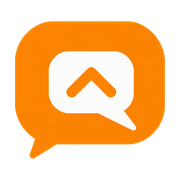
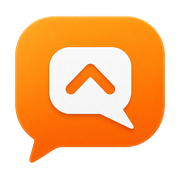
로고 교체, 상단 사진을 K-MEX 강의 사진으로 변경
Claude-Session: https://claude.ai/code/session_01Vp8HBMvyZNeE7F1fK8AEWw

diff --git a/index.html b/index.html
@@ -1,8 +1,8 @@
 <!doctype html><html lang="ko"><head><meta charset="utf-8"><meta name="viewport" content="width=device-width,initial-scale=1"><title>한의원 한방병원 성공연구소 | 임유주 직원교육·상담실장 양성 및 교육·운영 컨설팅</title><meta name="description" content="한의원·한방병원 직원교육, 상담실장 양성 및 교육, 비급여 상담교육, 개원 직원교육, CS교육, 운영 컨설팅. 임유주가 현장 관찰과 환자만족도 분석을 바탕으로 상담과 업무 흐름을 함께 다듬습니다."><meta name="theme-color" content="#FC8501"><link rel="icon" type="image/png" href="img/favicon.png"><link rel="apple-touch-icon" href="img/apple-touch-icon.png"><meta property="og:title" content="한의원 한방병원 성공연구소 | 임유주"><meta property="og:image" content="https://hani-success.github.io/img/logo.png"><style>
-:root{--orange:#FC8501;--ink:#25251f;--muted:#707069;--paper:#faf9f5;--line:#deded5}*{box-sizing:border-box}html{scroll-behavior:smooth;scroll-padding-top:90px}body{margin:0;background:var(--paper);color:var(--ink);font-family:Pretendard,'Noto Sans KR',Arial,sans-serif;line-height:1.8;word-break:keep-all}a{color:inherit;text-decoration:none}button,input,textarea,select{font:inherit}header{position:sticky;top:0;background:#faf9f5ee;backdrop-filter:blur(16px);border-bottom:1px solid var(--line);z-index:10}.nav{max-width:1200px;margin:auto;display:flex;align-items:center;justify-content:space-between;padding:19px 30px}.brand{font-weight:800;line-height:1.4;font-size:16px;display:flex;gap:12px;align-items:center}.brandname{white-space:nowrap;font-size:17px;letter-spacing:-.3px}.brandname .sub{font-weight:600}.mark{width:36px;height:36px;display:block}.links{display:flex;gap:28px;font-size:14px}.navcta{font-weight:700;color:#914500}.wrap{max-width:1140px;margin:auto;padding:0 30px}section{padding:110px 0}.eyebrow{font-size:12px;font-weight:800;letter-spacing:2px;color:#9b4b00;margin-bottom:24px}.hero{padding:100px 0 70px}.hero-grid{display:grid;grid-template-columns:1.4fr 1fr;gap:60px;align-items:center}h1{font-size:clamp(36px,4.8vw,64px);line-height:1.3;letter-spacing:-2.5px;font-weight:750;margin:0 0 28px}h2{font-size:clamp(28px,3.4vw,43px);line-height:1.4;letter-spacing:-1.6px;margin:0 0 24px}h3{font-size:21px;line-height:1.5;margin:0 0 16px}p{margin:0 0 20px}.lead{font-size:18px;color:var(--muted);max-width:660px}.accent{color:#b65b00}.buttons{display:flex;gap:14px;flex-wrap:wrap;margin-top:32px}.btn{display:inline-flex;align-items:center;justify-content:center;gap:25px;padding:14px 22px;background:var(--orange);color:#26220f;border-radius:4px;font-weight:700;border:0;cursor:pointer}.btn.secondary{background:transparent;border:1px solid #b8b8ad}.portrait{margin:0;border-radius:160px 160px 10px 10px;overflow:hidden;background:#e9e1d6;max-width:460px;justify-self:end;width:100%}.portrait img{display:block;width:100%;height:auto}.visual{min-height:420px;position:relative;background:#eeede5;border-radius:160px 160px 10px 10px;padding:70px 28px 35px;display:flex;flex-direction:column;justify-content:center}.visual:before{content:'';position:absolute;top:30px;right:25px;width:80px;height:80px;background:var(--orange);border-radius:50%}.visual .line{font-size:16px;margin:0 0 10px;padding:13px 18px;background:white;box-shadow:0 5px 20px #25251f08;border-radius:6px;position:relative}.visual .line:nth-child(2){margin-left:25px}.visual .line:nth-child(3){background:var(--ink);color:white;margin-right:25px}.visual .caption{font-size:13px;margin:24px 0 0;color:var(--muted);text-align:center}.stats{display:flex;border-top:1px solid var(--line);margin-top:70px;padding-top:28px;gap:65px}.stat strong{font-size:36px;letter-spacing:-1px}.stat span{display:block;font-size:13px;color:var(--muted)}.dark{background:var(--ink);color:#fff}.dark .eyebrow{color:#ffc076}.dark .lead{color:#c4c4b9}.split{display:grid;grid-template-columns:1fr 1.2fr;gap:80px}.quotes{border-top:1px solid #ffffff30}.quote{padding:24px 0;border-bottom:1px solid #ffffff30;font-size:20px}.closing{margin-top:28px;color:#c4c4b9;font-size:15px}.steps{margin-top:50px;display:grid;grid-template-columns:repeat(3,1fr);gap:30px}.step{border-top:2px solid var(--orange);padding-top:24px}.step small{color:#9b4b00;font-size:12px;font-weight:700}.step h3{margin-top:12px}.step p{color:var(--muted);font-size:15px}.services{display:grid;grid-template-columns:1fr 1fr;gap:1px;background:var(--line);border:1px solid var(--line);margin-top:45px}.service{background:var(--paper);padding:35px}.tag{font-size:12px;color:#8a4b12;margin-bottom:16px}.service p{color:var(--muted);font-size:15px}.service .topics{font-size:13px;border-top:1px solid var(--line);padding-top:16px;margin-bottom:0;color:#55554b}.cases{background:#efeee7}.case{padding:35px 0;display:grid;grid-template-columns:.85fr 1.2fr;gap:70px;border-top:1px solid #cecec3}.case:first-of-type{margin-top:45px}.case p{font-size:15px;color:#606057}.label{font-size:12px;color:#995008;display:block;margin-bottom:10px}.case h3{font-size:25px}.note{font-size:12px;color:var(--muted)}.profile{border-left:4px solid var(--orange);padding-left:28px}.profile .name{font-size:38px;font-weight:800;margin-bottom:8px}.credentials{padding:0;list-style:none;margin:28px 0 0}.credentials li{border-bottom:1px solid var(--line);padding:14px 0;font-size:15px}.process{display:grid;grid-template-columns:repeat(4,1fr);gap:25px;margin-top:45px}.process article{border-top:1px solid var(--line);padding-top:22px}.process h3{font-size:18px}.process p{font-size:14px;color:var(--muted)}details{border-bottom:1px solid var(--line);padding:22px 0}summary{font-size:18px;font-weight:600;cursor:pointer}details p{margin:18px 0 0;color:var(--muted);font-size:15px;max-width:850px}.contact{background:#ffead3}.contactbox{display:grid;grid-template-columns:1fr 1fr;gap:70px}.field{margin:0 0 15px}.field label{display:block;font-size:13px;font-weight:700;margin-bottom:5px}input,textarea,select{width:100%;border:1px solid #c9b49a;background:#fffaf4;padding:12px;border-radius:4px;color:var(--ink)}textarea{height:130px;resize:vertical}.status{font-size:13px;margin-top:15px}.kakao{display:flex;align-items:center;justify-content:space-between;gap:16px;background:#fff;border:1px solid #e3c9a6;border-radius:6px;padding:20px 22px;margin-bottom:28px}.kakao strong{display:block;font-size:17px}.kakao span{font-size:13px;color:var(--muted)}.kakao .btn{white-space:nowrap;flex-shrink:0;font-size:15px;color:#26220f}.or{font-size:12px;color:var(--muted);margin:0 0 14px}footer{padding:35px 0;font-size:12px;color:var(--muted)}footer .wrap{display:flex;justify-content:space-between;gap:20px}.mobile-menu{display:none}a:focus-visible,button:focus-visible,summary:focus-visible{outline:3px solid #ad5200;outline-offset:5px}@media(max-width:800px){.links{gap:15px;font-size:12px}.hero-grid,.split,.contactbox{grid-template-columns:1fr;gap:40px}.hero{padding-top:60px}section{padding:70px 0}.visual{min-height:310px;max-width:450px;width:100%;margin:auto}.portrait{max-width:360px;margin:auto;justify-self:center}.steps{grid-template-columns:1fr;gap:20px}.services{grid-template-columns:1fr}.case{grid-template-columns:1fr;gap:12px}.process{grid-template-columns:1fr 1fr}.stats{gap:40px}.nav,.wrap{padding-left:22px;padding-right:22px}.brand{font-size:13px;gap:8px}.brandname{font-size:14px}.links a:not(.navcta){display:none}footer .wrap{flex-direction:column}h1{letter-spacing:-1.7px}.hero-grid{gap:35px}.service{padding:26px}}
+:root{--orange:#FC8501;--ink:#25251f;--muted:#707069;--paper:#faf9f5;--line:#deded5}*{box-sizing:border-box}html{scroll-behavior:smooth;scroll-padding-top:90px}body{margin:0;background:var(--paper);color:var(--ink);font-family:Pretendard,'Noto Sans KR',Arial,sans-serif;line-height:1.8;word-break:keep-all}a{color:inherit;text-decoration:none}button,input,textarea,select{font:inherit}header{position:sticky;top:0;background:#faf9f5ee;backdrop-filter:blur(16px);border-bottom:1px solid var(--line);z-index:10}.nav{max-width:1200px;margin:auto;display:flex;align-items:center;justify-content:space-between;padding:19px 30px}.brand{font-weight:800;line-height:1.4;font-size:16px;display:flex;gap:12px;align-items:center}.brandname{white-space:nowrap;font-size:17px;letter-spacing:-.3px}.brandname .sub{font-weight:600}.mark{width:36px;height:36px;display:block}.links{display:flex;gap:28px;font-size:14px}.navcta{font-weight:700;color:#914500}.wrap{max-width:1140px;margin:auto;padding:0 30px}section{padding:110px 0}.eyebrow{font-size:12px;font-weight:800;letter-spacing:2px;color:#9b4b00;margin-bottom:24px}.hero{padding:100px 0 70px}.hero-grid{display:grid;grid-template-columns:1.15fr 1fr;gap:60px;align-items:center}h1{font-size:clamp(36px,4.8vw,64px);line-height:1.3;letter-spacing:-2.5px;font-weight:750;margin:0 0 28px}h2{font-size:clamp(28px,3.4vw,43px);line-height:1.4;letter-spacing:-1.6px;margin:0 0 24px}h3{font-size:21px;line-height:1.5;margin:0 0 16px}p{margin:0 0 20px}.lead{font-size:18px;color:var(--muted);max-width:660px}.accent{color:#b65b00}.buttons{display:flex;gap:14px;flex-wrap:wrap;margin-top:32px}.btn{display:inline-flex;align-items:center;justify-content:center;gap:25px;padding:14px 22px;background:var(--orange);color:#26220f;border-radius:4px;font-weight:700;border:0;cursor:pointer}.btn.secondary{background:transparent;border:1px solid #b8b8ad}.portrait{margin:0;justify-self:end;width:100%;max-width:560px}.portrait img{display:block;width:100%;height:auto;border-radius:12px;box-shadow:0 18px 40px #25251f14}.portrait figcaption{font-size:13px;color:var(--muted);margin-top:12px;padding-left:12px;border-left:3px solid var(--orange);line-height:1.5}.visual{min-height:420px;position:relative;background:#eeede5;border-radius:160px 160px 10px 10px;padding:70px 28px 35px;display:flex;flex-direction:column;justify-content:center}.visual:before{content:'';position:absolute;top:30px;right:25px;width:80px;height:80px;background:var(--orange);border-radius:50%}.visual .line{font-size:16px;margin:0 0 10px;padding:13px 18px;background:white;box-shadow:0 5px 20px #25251f08;border-radius:6px;position:relative}.visual .line:nth-child(2){margin-left:25px}.visual .line:nth-child(3){background:var(--ink);color:white;margin-right:25px}.visual .caption{font-size:13px;margin:24px 0 0;color:var(--muted);text-align:center}.stats{display:flex;border-top:1px solid var(--line);margin-top:70px;padding-top:28px;gap:65px}.stat strong{font-size:36px;letter-spacing:-1px}.stat span{display:block;font-size:13px;color:var(--muted)}.dark{background:var(--ink);color:#fff}.dark .eyebrow{color:#ffc076}.dark .lead{color:#c4c4b9}.split{display:grid;grid-template-columns:1fr 1.2fr;gap:80px}.quotes{border-top:1px solid #ffffff30}.quote{padding:24px 0;border-bottom:1px solid #ffffff30;font-size:20px}.closing{margin-top:28px;color:#c4c4b9;font-size:15px}.steps{margin-top:50px;display:grid;grid-template-columns:repeat(3,1fr);gap:30px}.step{border-top:2px solid var(--orange);padding-top:24px}.step small{color:#9b4b00;font-size:12px;font-weight:700}.step h3{margin-top:12px}.step p{color:var(--muted);font-size:15px}.services{display:grid;grid-template-columns:1fr 1fr;gap:1px;background:var(--line);border:1px solid var(--line);margin-top:45px}.service{background:var(--paper);padding:35px}.tag{font-size:12px;color:#8a4b12;margin-bottom:16px}.service p{color:var(--muted);font-size:15px}.service .topics{font-size:13px;border-top:1px solid var(--line);padding-top:16px;margin-bottom:0;color:#55554b}.cases{background:#efeee7}.case{padding:35px 0;display:grid;grid-template-columns:.85fr 1.2fr;gap:70px;border-top:1px solid #cecec3}.case:first-of-type{margin-top:45px}.case p{font-size:15px;color:#606057}.label{font-size:12px;color:#995008;display:block;margin-bottom:10px}.case h3{font-size:25px}.note{font-size:12px;color:var(--muted)}.profile{border-left:4px solid var(--orange);padding-left:28px}.profile .name{font-size:38px;font-weight:800;margin-bottom:8px}.credentials{padding:0;list-style:none;margin:28px 0 0}.credentials li{border-bottom:1px solid var(--line);padding:14px 0;font-size:15px}.process{display:grid;grid-template-columns:repeat(4,1fr);gap:25px;margin-top:45px}.process article{border-top:1px solid var(--line);padding-top:22px}.process h3{font-size:18px}.process p{font-size:14px;color:var(--muted)}details{border-bottom:1px solid var(--line);padding:22px 0}summary{font-size:18px;font-weight:600;cursor:pointer}details p{margin:18px 0 0;color:var(--muted);font-size:15px;max-width:850px}.contact{background:#ffead3}.contactbox{display:grid;grid-template-columns:1fr 1fr;gap:70px}.field{margin:0 0 15px}.field label{display:block;font-size:13px;font-weight:700;margin-bottom:5px}input,textarea,select{width:100%;border:1px solid #c9b49a;background:#fffaf4;padding:12px;border-radius:4px;color:var(--ink)}textarea{height:130px;resize:vertical}.status{font-size:13px;margin-top:15px}.kakao{display:flex;align-items:center;justify-content:space-between;gap:16px;background:#fff;border:1px solid #e3c9a6;border-radius:6px;padding:20px 22px;margin-bottom:28px}.kakao strong{display:block;font-size:17px}.kakao span{font-size:13px;color:var(--muted)}.kakao .btn{white-space:nowrap;flex-shrink:0;font-size:15px;color:#26220f}.or{font-size:12px;color:var(--muted);margin:0 0 14px}footer{padding:35px 0;font-size:12px;color:var(--muted)}footer .wrap{display:flex;justify-content:space-between;gap:20px}.mobile-menu{display:none}a:focus-visible,button:focus-visible,summary:focus-visible{outline:3px solid #ad5200;outline-offset:5px}@media(max-width:800px){.links{gap:15px;font-size:12px}.hero-grid,.split,.contactbox{grid-template-columns:1fr;gap:40px}.hero{padding-top:60px}section{padding:70px 0}.visual{min-height:310px;max-width:450px;width:100%;margin:auto}.portrait{max-width:560px;margin:0;justify-self:stretch}.steps{grid-template-columns:1fr;gap:20px}.services{grid-template-columns:1fr}.case{grid-template-columns:1fr;gap:12px}.process{grid-template-columns:1fr 1fr}.stats{gap:40px}.nav,.wrap{padding-left:22px;padding-right:22px}.brand{font-size:13px;gap:8px}.brandname{font-size:14px}.links a:not(.navcta){display:none}footer .wrap{flex-direction:column}h1{letter-spacing:-1.7px}.hero-grid{gap:35px}.service{padding:26px}}
 </style></head><body>
 <header><nav class="nav" aria-label="주 메뉴"><a class="brand" href="#home"><img class="mark" src="img/logo.png" alt="" width="36" height="36"><span class="brandname"><span class="sub">한의원 한방병원</span> 성공연구소</span></a><div class="links"><a href="#approach">교육 방식</a><a href="#programs">프로그램</a><a href="#cases">현장 사례</a><a href="#about">임유주 소개</a><a href="#contact" class="navcta">문의하기 ↗</a></div></nav></header>
-<main><section class="hero" id="home"><div class="wrap"><div class="hero-grid"><div><div class="eyebrow">현장을 이해하는 교육, 함께 만드는 변화</div><h1>환자가 다시 찾고,<br>직원이 함께 만드는<br><span class="accent">한의원·한방병원.</span></h1><p class="lead">한의원·한방병원 직원교육부터 상담교육, 운영 컨설팅까지. 직원이 막히는 지점을 함께 찾고, 현장에서 사용할 수 있는 말과 행동으로 풀어갑니다.</p><div class="buttons"><a class="btn" href="#contact">우리 한의원 교육 문의하기 <span>↗</span></a><a class="btn secondary" href="#approach">교육 방식 살펴보기 ↓</a></div></div><figure class="portrait"><img src="img/yimyoojoo.jpg" width="600" height="818" alt="한의원 한방병원 성공연구소 임유주 대표" fetchpriority="high"></figure></div><div style="margin-top:55px;padding:25px 0;border-top:1px solid var(--line)"><p style="font-size:clamp(22px,2.5vw,30px);font-weight:700;letter-spacing:-1px;margin-bottom:10px">환자의 방문 경험이 재내원과 소개를 결정합니다.</p><p style="color:var(--muted);margin:0">첫 전화의 응대, 진료 전후의 설명, 기다리는 동안의 안내까지.<br>환자가 경험하는 장면마다 신뢰가 쌓이도록 직원교육과 운영을 함께 다듬습니다.</p></div><div class="stats" style="margin-top:0"><div class="stat"><strong>6,000+</strong><span>환자만족도 설문 분석</span></div><div class="stat"><strong>100+</strong><span>한의원·한방병원 현장 방문 직원교육</span></div></div></div></section>
+<main><section class="hero" id="home"><div class="wrap"><div class="hero-grid"><div><div class="eyebrow">현장을 이해하는 교육, 함께 만드는 변화</div><h1>환자가 다시 찾고,<br>직원이 함께 만드는<br><span class="accent">한의원·한방병원.</span></h1><p class="lead">한의원·한방병원 직원교육부터 상담교육, 운영 컨설팅까지. 직원이 막히는 지점을 함께 찾고, 현장에서 사용할 수 있는 말과 행동으로 풀어갑니다.</p><div class="buttons"><a class="btn" href="#contact">우리 한의원 교육 문의하기 <span>↗</span></a><a class="btn secondary" href="#approach">교육 방식 살펴보기 ↓</a></div></div><figure class="portrait"><img src="img/kmex-lecture.jpg" width="1200" height="900" alt="K-MEX 2025 한의의료기관 직원 CS 교육에서 강의하는 한의원 한방병원 성공연구소 임유주 대표" fetchpriority="high"><figcaption>K-MEX 2025 · 한의의료기관 직원 CS 교육 강의</figcaption></figure></div><div style="margin-top:55px;padding:25px 0;border-top:1px solid var(--line)"><p style="font-size:clamp(22px,2.5vw,30px);font-weight:700;letter-spacing:-1px;margin-bottom:10px">환자의 방문 경험이 재내원과 소개를 결정합니다.</p><p style="color:var(--muted);margin:0">첫 전화의 응대, 진료 전후의 설명, 기다리는 동안의 안내까지.<br>환자가 경험하는 장면마다 신뢰가 쌓이도록 직원교육과 운영을 함께 다듬습니다.</p></div><div class="stats" style="margin-top:0"><div class="stat"><strong>6,000+</strong><span>환자만족도 설문 분석</span></div><div class="stat"><strong>100+</strong><span>한의원·한방병원 현장 방문 직원교육</span></div></div></div></section>
 <section class="dark" id="concerns"><div class="wrap split"><div><div class="eyebrow">원장님의 고민에서 시작합니다</div><h2>직원에게 맡기고 싶은데,<br>결국 다시 설명하고<br>계신가요?</h2><p class="lead">직원도 열심히 일합니다.<br>그런데 상담이 막히고, 안내가 빠지고,<br>같은 문제가 반복되기도 합니다.</p></div><div><div class="quotes"><div class="quote">“진료실에서는 이해하셨는데,<br>상담실에 다녀오면 치료가 줄어들어요.”</div><div class="quote">“친절한데, 환자가 무엇을 망설이는지<br>잘 짚지 못해요.”</div><div class="quote">“몇 번을 알려줘도 같은 실수가 반복돼요.”</div><div class="quote">“직원은 바쁘다고 하는데,<br>업무를 어떻게 나눠야 할지 모르겠어요.”</div></div><p class="closing">이럴 때 실제 상담과 업무 흐름을 살펴봅니다. 직원이 무엇을 알고 있는지, 어떤 장면에서 어려움을 겪는지 확인하면 교육의 시작점이 보입니다.</p></div></div></section>
 <section id="approach"><div class="wrap"><div class="eyebrow">작은 장면을 자세히 봅니다</div><h2>“친절하게 해주세요” 다음에,<br>직원이 할 수 있는 행동을 만듭니다.</h2><p class="lead">환자의 질문을 듣고 바로 답하기 전에 무엇을 확인할지, 원장님의 설명을 어떻게 이어갈지, 다음 직원에게 어떤 정보를 전달할지. 매일 만나는 장면을 교육의 재료로 삼습니다.</p><div class="steps"><article class="step"><small>관찰</small><h3>어디에서 막히는지 찾습니다.</h3><p>전화 문의, 접수, 진료 전후 상담, 수납과 다음 내원 안내까지. 환자의 입장에서 응대와 동선을 확인합니다.</p></article><article class="step"><small>이해</small><h3>그렇게 응대한 이유를 듣습니다.</h3><p>치료 지식이 부족한지, 환자의 반응이 부담스러운지, 업무가 겹치는지. 직원의 어려움을 알아야 필요한 교육이 선명해집니다.</p></article><article class="step"><small>실행</small><h3>직접 말하고 연습합니다.</h3><p>쉬운 설명, 확인 질문, 자연스러운 연결 멘트를 함께 만듭니다. 실제 상황처럼 연습하며 직원이 스스로 응대할 힘을 기릅니다.</p></article></div></div></section>
 <section id="programs" style="padding-top:20px"><div class="wrap"><div class="eyebrow">우리 조직에 맞는 교육</div><h2>지금 필요한 변화에 맞춰<br>교육과 컨설팅을 설계합니다.</h2><div class="services"><article class="service"><div class="tag">원장님 · 상담실장 · 직원</div><h3>상담실장 양성 및 교육 · 비급여 상담</h3><p>환자의 질문 속 마음을 확인하고, 치료의 필요성을 이해하기 쉽게 설명하도록 돕습니다. 선상담부터 원장 설명을 이어가는 후상담까지 연결합니다. 상담실장 교육은 주로 1:1로 진행합니다.</p><p class="topics">치료한약 · 보약 · 공진단 · 경옥고 · 약침 · 추나 · 피부 · 다이어트 상담</p></article><article class="service"><div class="tag">데스크 · 치료실 · 병동 · 신입 직원</div><h3>CS교육 · 개원 직원교육</h3><p>첫 전화부터 귀가 안내까지 환자가 경험하는 접점을 다듬습니다. 상황별 응대와 부서 간 인계를 연습하고, 신입 직원이 참고할 기준을 정리합니다.</p><p class="topics">전화 문의 · 접수 · 대기 안내 · 수납 · 불편 응대 · 신입 온보딩 · 오픈 전 교육</p></article><article class="service"><div class="tag">원장님 · 관리자 · MSO · 다지점 경영진</div><h3>운영 컨설팅 · 관리자 코칭</h3><p>반복되는 누락, 엇갈리는 안내, 불분명한 업무분장을 함께 살펴봅니다. 환자만족도와 현장 관찰을 바탕으로 조직에 필요한 운영 기준을 만듭니다.</p><p class="topics">업무분장 · 상담 동선 · 매뉴얼 · 환자만족도 분석 · 관리자 소통</p></article><article class="service"><div class="tag">한의사회 · 교육기관 · 기업 · 협업 파트너</div><h3>강의 · 교육 콘텐츠 협업</h3><p>한의과 현장 사례를 바탕으로 참석자가 자신의 응대를 돌아보고 적용할 수 있는 강의를 구성합니다. 대상과 목적에 맞춘 교육 콘텐츠 협업도 진행합니다.</p><p class="topics">초청 강의 · 직원교육 세미나 · 상담실장 교육 · 맞춤 교육 콘텐츠</p></article></div></div></section>
